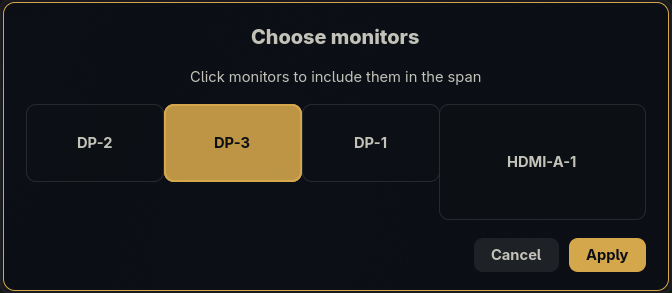
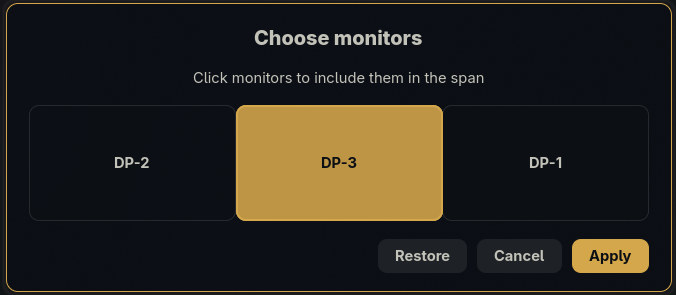
Document global fullscreen, partial monitor spanning, and Hyprland #1660
- README.md: Restructure into Intro/Modes -> Install -> Configure Keybindings (both hyprland.conf and Lua) -> How to Use -> Limits -> Checks.
- README.md: Define automatic horizontal row default behavior vs explicit monitor arguments, and clarify that Super+G / Super+Shift+G are recommended user bindings rather than built-in shortcuts.
- README.md / docs/DEVELOPMENT.md: Reference upstream hyprwm/Hyprland#1660 on global fullscreen spanning.
- images/monitor-picker.png: Update monitor picker screenshot to show the 3-monitor row and Restore button.

diff --git a/README.md b/README.md
@@ -1,62 +1,86 @@
 # Hyprstretch
 
-Stretch a window across chosen Hyprland monitors without floating it. Super easy!
+**Global fullscreen** and **partial multi-monitor fullscreen** for Hyprland—stretch any window across all (or a chosen subset) of your monitors without floating it. Super easy!
 
-I looked into [Hyprspan](https://github.com/gondhijagapathi/hyprspan), but it didn't do everything I wanted, so I built this! This works for every application I've tested so far, such as Assetto Corsa and terminals that don't request multi-monitor spanning themselves!
+Upstream Hyprland declined built-in global fullscreen across multiple monitors in [hyprwm/Hyprland#1660](https://github.com/hyprwm/Hyprland/issues/1660), and while I looked into [Hyprspan](https://github.com/gondhijagapathi/hyprspan), it didn't do everything I wanted, so I built **Hyprstretch**! This works for every Wayland and XWayland application I've tested so far—including sim-racing games like *Assetto Corsa* across triple monitors, ultrawide workflows, and terminals or apps that don't request multi-monitor spanning themselves.
 
-Hyprstretch also includes a simple GUI monitor selector in case you only want to span part of your setup:
+### Modes: Global Fullscreen vs. Partial Fullscreen
+
+- **Global Fullscreen (Default Span):** Stretches the focused window across your entire horizontal monitor row (or your configured default monitors) in one keypress, and restores its exact original tiled/floating geometry when toggled off.
+- **Partial Fullscreen (GUI Monitor Picker):** Want a window stretched across just 2 of your 3 monitors, or want to exclude an extra TV/side display? Open the visual monitor picker (`tools/picker.py`), click the physical monitor tiles you want to span, and click **Apply**:
 
 ![Hyprstretch monitor selector](images/monitor-picker.png)
 
 Full disclosure: This was created entirely by Codex (ChatGPT AI). It ran the tests it created, then loaded the plugin. I manually tested it, and it works how I expect!
 I do not take responsibility for issues it causes or configurations it may break; I can only say it works fine in my environment, but I don't see why it wouldn't work on others.
 
-## Use
-
-Focus a window and press **Super+Shift+G**. Click the physical monitor tiles to
-choose a span, then apply. The active window's monitor is selected by default.
-Press **Escape**, **Super+Shift+G**, or **Super+G** to close the picker. When the
-picker is closed, **Super+G** toggles the configured monitor span for the focused
-window.
-
-## Configure the bindings
-
-Add these to your Hyprland Lua config. Replace the project path and monitor names
-with yours:
-
-```lua
-local hyprstretch = "/home/you/src/hyprstretch"
-
-hl.bind("SUPER + G",
-    hl.dsp.exec_cmd("python3 " .. hyprstretch .. "/tools/toggle.py LEFT CENTER RIGHT"),
-    { description = "Toggle span or close picker" })
-
-hl.bind("SUPER + SHIFT + G",
-    hl.dsp.exec_cmd("python3 " .. hyprstretch .. "/tools/picker.py"),
-    { description = "Choose monitors for active window" })
-```
-
-The picker captures the active window before opening. Super+G detects and closes
-the picker. Otherwise, it passes the listed output names to the plugin's `toggle`
-command, which restores the focused window if it is already stretched. The picker
-needs Python 3, GTK 4, and PyGObject.
-
 ## Install
 
-Hyprstretch targets Hyprland 0.57 and needs matching headers, a C++26 compiler,
-`make`, `pkg-config`, and Hyprland's development dependencies.
+Hyprstretch targets Hyprland 0.57 and needs matching headers, a C++26 compiler, `make`, `pkg-config`, and Hyprland's development dependencies. The optional GUI picker requires Python 3, GTK 4, and PyGObject (`python-gobject`).
 
 ```sh
+git clone https://github.com/rparker52003/hyprstretch.git
+cd hyprstretch
 make
 hyprctl plugin load "$PWD/build/hyprstretch.so"
 ```
 
+## Configure Keybindings
+
+Hyprstretch does not hardcode any keybindings so it never collides with your existing config. Below are the recommended bindings (`SUPER + G` for instant global fullscreen toggle, and `SUPER + SHIFT + G` for the interactive monitor picker).
+
+### Option A: Standard `hyprland.conf`
+
+```ini
+# Load the plugin on startup
+exec-once = hyprctl plugin load /home/you/src/hyprstretch/build/hyprstretch.so
+
+# Auto-detect all monitors in the active window's horizontal row:
+bind = SUPER, G, exec, python3 /home/you/src/hyprstretch/tools/toggle.py
+
+# Or specify exact monitor interfaces (order does not matter; sorted left-to-right automatically):
+# bind = SUPER, G, exec, python3 /home/you/src/hyprstretch/tools/toggle.py DP-1 DP-2 DP-3
+# bind = SUPER, G, exec, hyprctl hyprstretch toggle HDMI-A-1 DP-1
+
+# Open the visual monitor picker for partial/custom spans:
+bind = SUPER SHIFT, G, exec, python3 /home/you/src/hyprstretch/tools/picker.py
+```
+
+### Option B: Hyprland Lua Config (`hyprland.lua`)
+
+```lua
+local hyprstretch = "/home/you/src/hyprstretch"
+
+-- Auto-detect all monitors in the active window's horizontal row:
+hl.bind("SUPER + G",
+    hl.dsp.exec_cmd("python3 " .. hyprstretch .. "/tools/toggle.py"),
+    { description = "Toggle global fullscreen span or close monitor picker" })
+
+-- Or specify exact monitor interfaces (e.g. triple DP setup or dual HDMI+DP):
+-- hl.bind("SUPER + G",
+--     hl.dsp.exec_cmd("python3 " .. hyprstretch .. "/tools/toggle.py DP-1 DP-2 DP-3"),
+--     { description = "Toggle span across DP-1, DP-2, and DP-3" })
+
+hl.bind("SUPER + SHIFT + G",
+    hl.dsp.exec_cmd("python3 " .. hyprstretch .. "/tools/picker.py"),
+    { description = "Open monitor picker for partial/custom span" })
+```
+
+> **Note on Defaults:** If you do not pass monitor names to `toggle.py` (or `hyprctl hyprstretch toggle`), Hyprstretch automatically detects and spans all enabled monitors sharing the active window's horizontal row, height, and scale. If you want to restrict `Super+G` to specific monitors, pass them as arguments (`toggle.py DP-2 DP-3 DP-1`).
+
+## How to Use
+
+- **Toggle Global Fullscreen (`Super+G`):** Stretches the focused window across your horizontal monitor row. Press `Super+G` again to restore the window to its original single-monitor tiled or floating state.
+- **Pick Specific Monitors (`Super+Shift+G`):** Opens the visual monitor layout with the active window's current monitor pre-selected.
+  - Click additional monitors to span across a custom subset and click **Apply**.
+  - Click **Restore** (or press `Super+G` afterward) to return the window to normal.
+  - Press `Escape`, `Super+Shift+G`, or `Super+G` while the picker is open to dismiss it without changes.
+
+See [`docs/API.md`](docs/API.md) for direct `hyprctl hyprstretch` CLI commands and native `hl.plugin.hyprstretch.*` Lua functions.
+
 ## Limits
 
-Selected monitors must form one contiguous horizontal row and share a logical
-height and scale. Include the window's current monitor. Pinned, grouped, and
-special-workspace windows are unsupported. XWayland requires
-`xwayland:force_zero_scaling` off. Rebuild after Hyprland updates.
+Selected monitors must form one contiguous horizontal row and share a logical height and scale. Include the window's current monitor. Pinned, grouped, and special-workspace windows are unsupported. XWayland requires `xwayland:force_zero_scaling` off. Rebuild after Hyprland updates.
 
 ## Checks
 
@@ -68,5 +92,4 @@ python3 tests/picker_smoke.py
 python3 tests/integration.py
 ```
 
-The integration checks use a nested compositor and do not control the parent
-session. MIT license. Developed by Ryan Parker with AI assistance.
+The integration checks use a nested compositor and do not control the parent session. MIT license. Developed by Ryan Parker with AI assistance.

diff --git a/docs/DEVELOPMENT.md b/docs/DEVELOPMENT.md
@@ -13,6 +13,8 @@ not part of this implementation.
 
 ## Engineering references
 
+- [Hyprland issue #1660](https://github.com/hyprwm/Hyprland/issues/1660): upstream
+  discussion on global fullscreen / multi-monitor fullscreen spanning in Hyprland.
 - [Hyprspan](https://github.com/gondhijagapathi/hyprspan): background on
   application-requested X11 multi-monitor fullscreen and the initial prototype.
 - [Hyprland 0.57 plugin API](https://github.com/hyprwm/Hyprland/blob/v0.57.0/src/plugins/PluginAPI.hpp):
